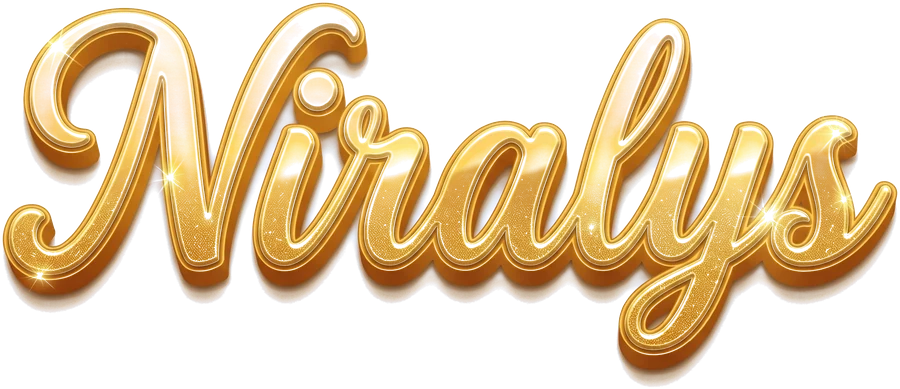
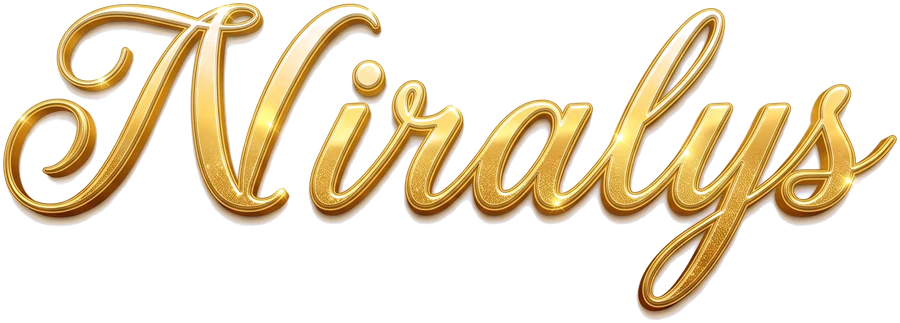
XV Niralys v4: portada como Princesa Rosa (nombre arriba, difuminado, columnas con rosas reales), titulos letra B

diff --git a/mis-xv-niralys/index.html b/mis-xv-niralys/index.html
@@ -218,8 +218,8 @@ const CONFIG = {
     "regalos-titulo": "recursos/titulo-sobres.webp",
     "confirmacion-titulo": "recursos/titulo-confirma.webp"
   },
-  marcoFlores: "recursos/marco-flores.webp",
-  misXvOro: "recursos/titulo-misxv.webp",      // "Mis XV Años" en dorado (Gemini)   // marco de rosas reales sobre la foto de la portada
+  marcoFlores: "recursos/columnas.webp",       // columnas con rosas reales a los lados (como Princesa Rosa)
+  misXvOro: "",                               // "" = MIS XV AÑOS en letras (como Princesa Rosa)      // "Mis XV Años" en dorado (Gemini)   // marco de rosas reales sobre la foto de la portada
 
   petalos: true,            // pétalos rosados cayendo
 
@@ -643,6 +643,23 @@ body.esperando #petalos { display: none; }
 #portada::after { content: ""; position: absolute; inset: 3.5cqw; z-index: 3; border: 1px solid rgba(226, 193, 114, .75); pointer-events: none; }
 #portada .baja { color: #e9c98a; text-shadow: none; bottom: 7cqw; }
 #portada .destellos, #portada .mariposa { z-index: 2; }
+/* ===== Niralys v4: portada como Princesa Rosa (nombre arriba, difuminado, columnas con rosas) ===== */
+#portada { background: #f4e9e2; }
+#portada::after { display: none; }
+#portada .portada-img { top: 9%; height: 91%; object-position: 60% 22%; -webkit-mask-image: linear-gradient(transparent 0, #000 14%); mask-image: linear-gradient(transparent 0, #000 14%); }
+#portada .velo { inset: 0 0 auto; height: 78cqw; z-index: 1; background: linear-gradient(rgba(250, 242, 236, .97) 0%, rgba(250, 242, 236, .86) 38%, rgba(250, 242, 236, .45) 70%, rgba(250, 242, 236, 0) 100%); }
+#portada .marco-flores { top: 0; height: 100%; object-fit: fill; }
+#portada:not(.sin-imagen) .encabezado { top: 7cqw; bottom: auto; }
+#portada .arriba { order: 0; margin: 1.5cqw 0 0; color: var(--rosa-titulo); font: 600 5.6cqw/1 var(--caps); letter-spacing: .26em; padding-left: .26em; text-shadow: 0 0 10px rgba(255, 248, 242, .95); }
+#portada:not(.sin-imagen) .nombre { width: 74cqw; }
+#portada .fecha-portada { display: none !important; }
+#portada .baja { color: #fff6ec; text-shadow: 0 1px 6px rgba(40, 0, 10, .8); }
+/* títulos letra B (una línea): más anchos para que se lean */
+#vestimenta-titulo .titulo-oro, #confirmacion-titulo .titulo-oro { width: 80cqw; }
+#galeria-titulo .titulo-oro { width: 72cqw; }
+#regalos-titulo .titulo-oro { width: 72cqw; }
+#fecha-titulo .titulo-oro { width: 74cqw; }
+#despedida .te-espero { position: relative; z-index: 5; width: 52cqw; }
 </style>
 </head>
 
